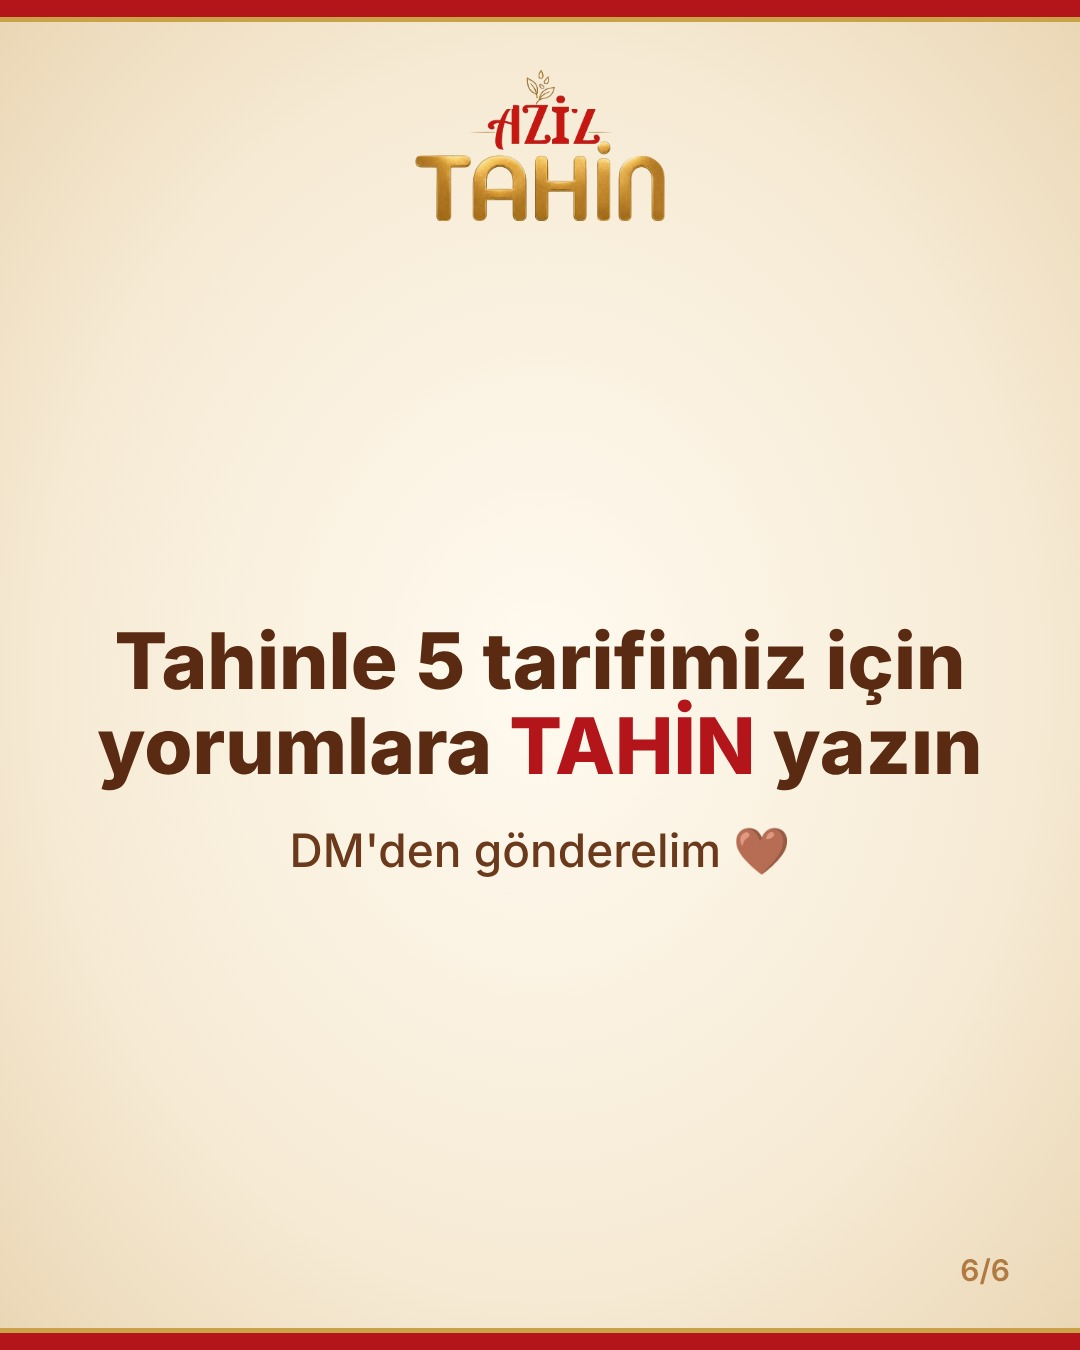
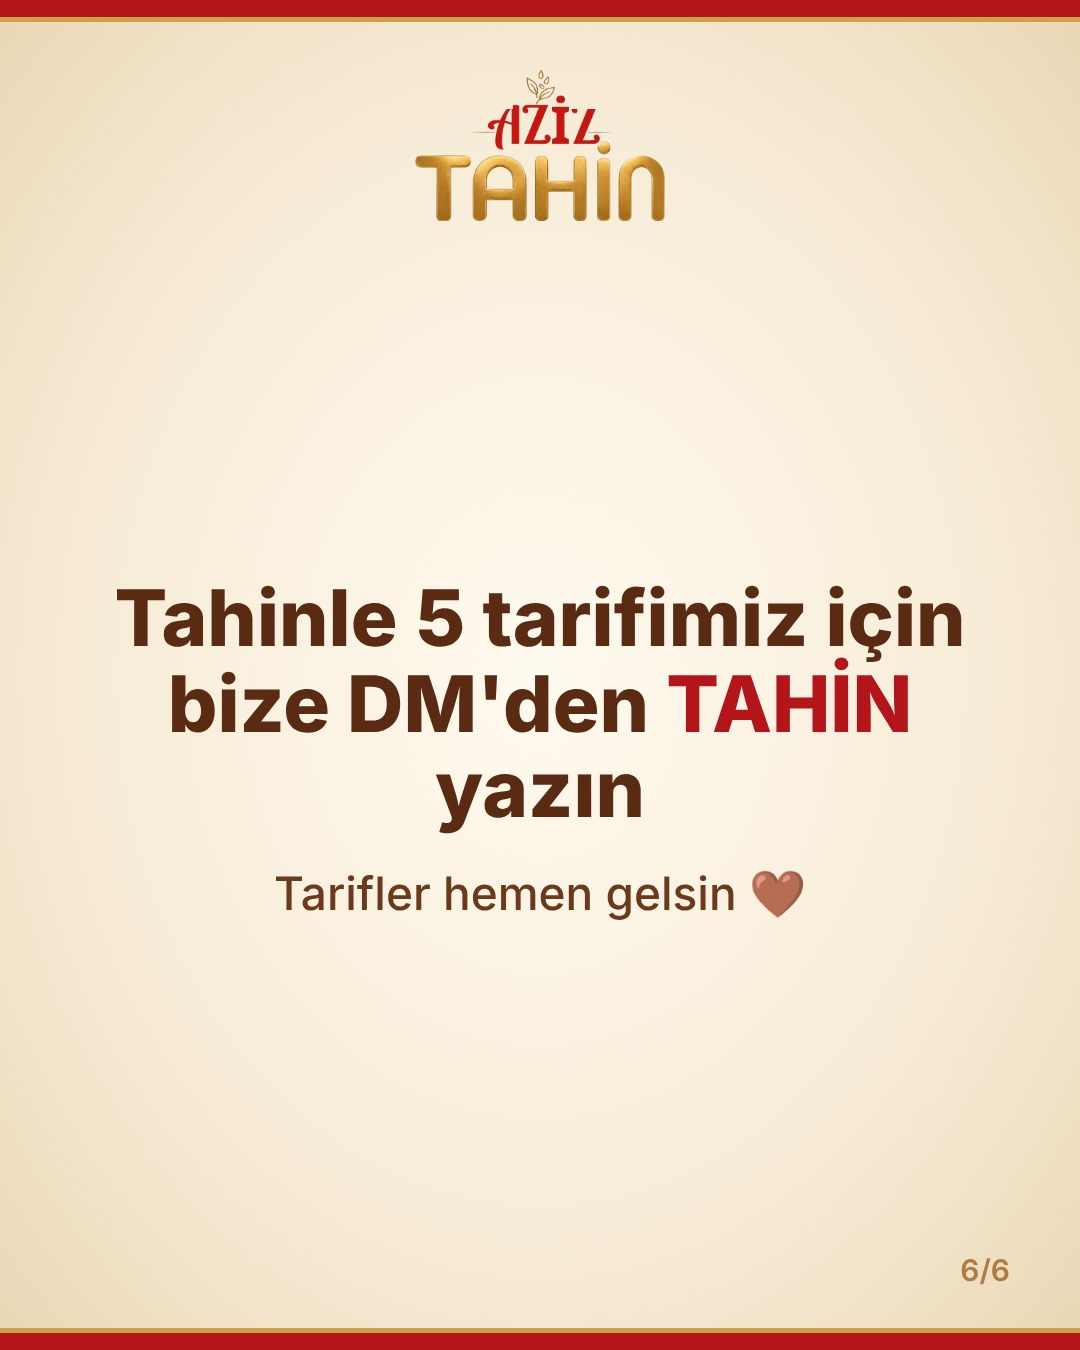
TAHİN çağrısı DM'e taşındı; Tarifler öne çıkanı için 7 hikâye bu akşam 21:00
Claude-Session: https://claude.ai/code/session_01LbgBc4wPXWRgFMDuR8TYQV

Changed region(s): [[0.0917, 0.4356, 0.9167, 0.6844]]

diff --git a/.claude/instagram/yayin/gorsel-uretici/tarifhikaye.py b/.claude/instagram/yayin/gorsel-uretici/tarifhikaye.py
@@ -1,0 +1,57 @@
+import re, json, subprocess, os, sys, html
+from PIL import Image
+OUT="/home/user/instagram-agent-skill/.claude/instagram/gorseller"
+src=open('/home/user/instagram-agent-skill/.claude/instagram/tarif-listesi.md').read().split('---',1)[1].rsplit('\n---\n',1)[0]
+parts=re.split(r'\n(?=\*\*\d\. )',('**1. '+src.split('**1. ',1)[1]).strip())
+def parse(p):
+    p=re.sub(r'\n +',' ',p)
+    lines=p.splitlines(); title=lines[0].replace('**','')
+    m=re.match(r'(\d)\. (.*?)(?: \((.*)\))?$',title); return m.group(1),m.group(2),m.group(3),"\n".join(lines[1:]).strip()
+def body_html(b):
+    out=[]
+    for blk in b.split('\n\n'):
+        ls=blk.strip().splitlines()
+        if not ls: continue
+        if ls[0].endswith(':'):
+            out.append(f'<h3>{html.escape(ls[0][:-1])}</h3>'); ls=ls[1:]
+        if ls and ls[0].startswith('- '):
+            out.append('<ul>'+''.join(f'<li>{html.escape(l[2:])}</li>' for l in ls)+'</ul>')
+        elif ls and re.match(r'\d\.',ls[0]):
+            out.append('<ol>'+''.join(f'<li>{html.escape(re.sub(r"^\d\. ","",l))}</li>' for l in ls)+'</ol>')
+        elif ls: out.append('<p>'+html.escape(' '.join(ls))+'</p>')
+    return ''.join(out)
+CSS="""*{margin:0;padding:0;box-sizing:border-box}body{width:1080px;height:1920px;overflow:hidden;font-family:'Inter',sans-serif;background:radial-gradient(ellipse at 50% 45%,#fffaf0 0%,#f6ead4 65%,#ead6b4 100%);color:#4a2510;position:relative}
+.band{position:absolute;left:0;right:0;height:120px;background:#b3151b}.top{top:0;border-bottom:6px solid #c9a24a}.bot{bottom:0;border-top:6px solid #c9a24a}
+.logo{position:absolute;top:160px;left:50%;transform:translateX(-50%);width:300px}
+#c{position:absolute;top:400px;left:80px;right:80px;bottom:260px;overflow:hidden}
+.no{font-family:'Inter Display';font-weight:900;color:#c9a24a;font-size:1.6em;line-height:1}
+h2{font-size:1.45em;font-weight:800;color:#b3151b;line-height:1.15;margin:.1em 0 .15em}
+.meta{color:#8a5a2e;font-weight:600;margin-bottom:.5em}
+h3{font-size:1.02em;color:#b07a42;text-transform:uppercase;letter-spacing:.12em;margin:.8em 0 .25em}
+ul,ol{padding-left:1.15em}li{margin:.12em 0;line-height:1.32}p{line-height:1.35;margin:.4em 0}
+.foot{position:absolute;bottom:160px;width:100%;text-align:center;font-size:34px;font-weight:600;color:#8a5a2e}
+.e{font-family:'Noto Color Emoji'}
+.cover{position:absolute;top:420px;left:80px;right:80px;bottom:300px;display:flex;flex-direction:column;align-items:center;justify-content:center;text-align:center;gap:34px}
+"""
+FIT="<script>let c=document.getElementById('c');let s=46;c.style.fontSize=s+'px';while(c.scrollHeight>c.clientHeight&&s>24){s--;c.style.fontSize=s+'px'}document.title=s</script>"
+def page(inner,fit=True): return f"<!doctype html><html><head><meta charset='utf-8'><style>{CSS}</style></head><body><div class='band top'></div><img class='logo' src='logo.png'>{inner}<div class='foot'>Sipariş için WhatsApp'tan yazabilirsiniz <span class='e'>🤎</span></div><div class='band bot'></div>{FIT if fit else ''}</body></html>"
+frames=[("tarif-0-kapak",page("<div class='cover'><div style='font-size:44px;font-weight:600;letter-spacing:8px;color:#b07a42'>ÖNE ÇIKAN</div><div style='font-size:120px;font-weight:900;color:#b3151b;line-height:1'>Tarifler</div><div style='font-size:56px;font-weight:700'>Aziz Tahin ile<br>5 tarif</div><div style='font-size:42px;color:#6b3a1c'>Kaydırın, kaydedin <span class='e'>🥄</span></div></div>",False))]
+for p in parts:
+    n,t,meta,b=parse(p)
+    head=f"<div class='no'>{n}</div><h2>{html.escape(t)}</h2>"+(f"<div class='meta'>{html.escape(meta)}</div>" if meta else "")
+    if n=='1':
+        a,y=b.split('\nYapılışı:',1)
+        frames.append((f"tarif-{n}a",page(f"<div id='c'>{head}{body_html(a)}</div>")))
+        frames.append((f"tarif-{n}b",page(f"<div id='c'>{head.replace('</h2>',' <span style=\"font-size:.6em;color:#8a5a2e\">(devamı)</span></h2>')}{body_html('Yapılışı:'+y)}</div>")))
+    else:
+        frames.append((f"tarif-{n}",page(f"<div id='c'>{head}{body_html(b)}</div>")))
+ids=[]
+for name,h in frames:
+    open('t.html','w').write(h)
+    subprocess.run(["node","shot.js",os.path.abspath('t.html'),os.path.abspath(name+'.png')],check=True)
+    Image.open(name+'.png').convert('RGB').save(f"{OUT}/hikaye-{name}.jpg",quality=92); ids.append(name)
+print(ids)
+ims=[Image.open(f"{OUT}/hikaye-{i}.jpg").resize((270,480)) for i in ids]
+c=Image.new('RGB',(len(ims)*280,480),'white')
+for k,im in enumerate(ims): c.paste(im,(k*280,0))
+c.save('tarif-onizleme.jpg')

diff --git a/.claude/instagram/voice.md b/.claude/instagram/voice.md
@@ -69,7 +69,7 @@ Bu açıklamalarda eksik olanlar (bundan sonra yapılmayacak):
 
 ## Satış dili
 
-- Her içerik tek bir somut çağrıyla biter: ya "Yorumlara TAHİN yazın" ya da
+- Her içerik tek bir somut çağrıyla biter: ya "DM'den TAHİN yazın" ya da
   "Sipariş için profildeki WhatsApp linkinden yazın". İkisi aynı anda
   kullanılmaz.
 - İlk cümle ürünü değil, izleyicinin durumunu anlatır: bir soru, bir yanlış
@@ -98,7 +98,7 @@ sipariş verdirmektir.
   müşterimiz tekrar alıyor", "Türkiye'nin her iline gönderim").
 - **Son slayt:** Tek ve net sipariş çağrısı: "Sipariş için profildeki
   WhatsApp linkinden yazın." Siparişin kolay olduğu hatırlatılır.
-  Yorum anahtar kelimesi (TAHİN) yalnızca tarif içerikli carousel'lerde.
+  DM anahtar kelimesi (TAHİN) yalnızca tarif içerikli carousel'lerde.
 - **Açıklama:** İlk satır merak açar ve "... devamı" kesiminden önce biter;
   sonda aynı sipariş çağrısı, 3 hashtag.
 - Haftada en az 2 carousel doğrudan sipariş çağrısıyla biter.
@@ -157,7 +157,8 @@ asla uydurmaz.
 
 ## Çağrı (CTA)
 
-- **Anahtar kelime CTA'sı:** TAHİN
+- **Anahtar kelime CTA'sı:** TAHİN, **DM'den** yazılır (yorum değil). Meta Business
+  Suite otomatik yanıtı tarifleri "Tarifler" öne çıkanına yönlendirir.
 - **Anahtar kelime ne gönderir:** Aziz Tahin ürünleriyle yapılabilecek 5
   tariflik bir liste. (İndirim ya da hediye verilmez.)
 - **Linkim nereye gider:** Profilde birden fazla link var:

diff --git a/.claude/instagram/tarif-listesi.md b/.claude/instagram/tarif-listesi.md
@@ -1,6 +1,6 @@
 # Aziz Tahin ile 5 tarif
 
-Yorumlara "TAHİN" yazan takipçilere DM'den gönderilen liste.
+DM'den "TAHİN" yazan takipçiler için tarif listesi ("Tarifler" öne çıkanında da var).
 
 ---
 
